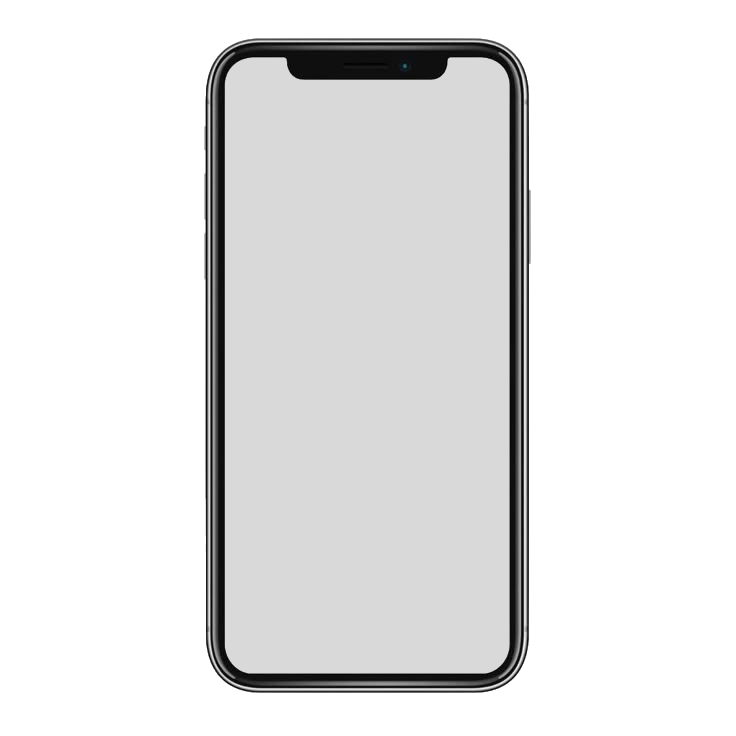
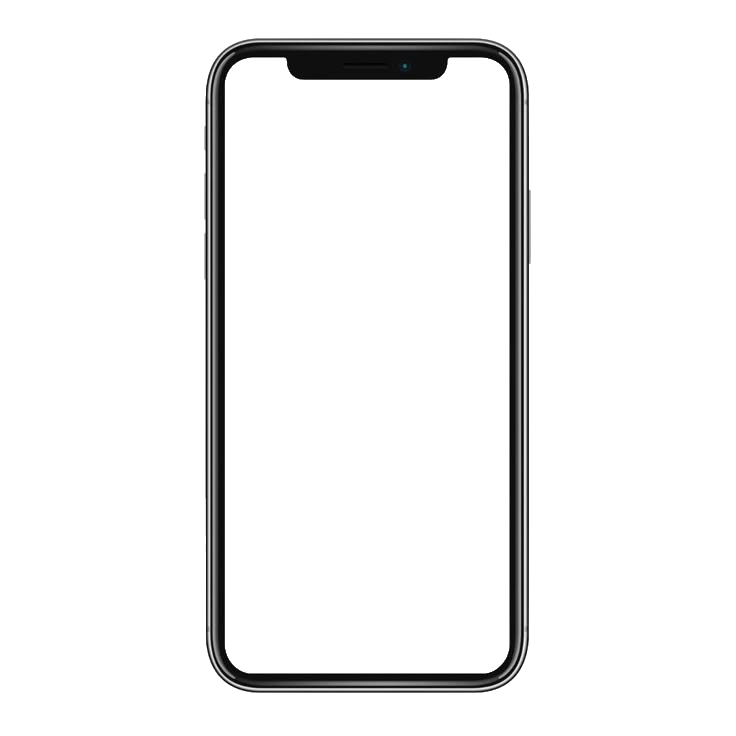
update: écran et contenu des téléphones

diff --git a/landing-page/src/app/section/hero-banner/hero-banner.module.scss b/landing-page/src/app/section/hero-banner/hero-banner.module.scss
@@ -10,7 +10,7 @@
   align-items: center;
   padding: 0 2em;
 
-  .side {
+  .divTitleText {
     flex: 1 1 0;
     min-width: 0; // Important pour éviter le débordement de texte
   }
@@ -57,21 +57,43 @@
     top: 10em;
     right: -4em;
   }
+  .phoneFrameContainer {
+    .phoneScreen1 {
+      position: absolute;
+      top: 1em;
+      right: 22em;
+      height: 550px;
+      width: 270px;
+      border-radius: 20px;
+      object-fit: cover;
+      z-index: 1;
+    }
 
-  .phone1 {
-    position: absolute;
-    top: -4em;
-    right: 10em;
-    height: 650px;
-    width: auto;
-    z-index: 1;
-  }
-
-  .phone2 {
-    position: relative;
-    height: 650px;
-    width: auto;
-    z-index: 2;
+    .phoneScreen2 {
+      position: absolute;
+      top: 3.5em;
+      right: 12em;
+      height: 550px;
+      width: 270px;
+      border-radius: 20px;
+      object-fit: cover;
+      z-index: 3;
+    }
+    .phoneFrame1 {
+      position: absolute;
+      top: -2em;
+      right: 10em;
+      height: 650px;
+      width: auto;
+      z-index: 2;
+    }
+    .phoneFrame2 {
+      position: relative;
+      top: 0em;
+      height: 650px;
+      width: auto;
+      z-index: 4;
+    }
   }
 }
 
@@ -93,13 +115,13 @@
       font-size: 1.3rem;
     }
 
-    .phone1,
-    .phone2 {
+    .phoneFrame1,
+    .phoneFrame2 {
       height: 570px;
       width: auto;
     }
 
-    .phone1 {
+    .phoneFrame1 {
       top: -1em;
       right: 8.5em;
     }
@@ -126,15 +148,19 @@
       right: -3.5em;
     }
 
-    .phone1,
-    .phone2 {
+    .phoneFrame1,
+    .phoneFrame2 {
       height: 550px;
       width: auto;
     }
 
-    .phone1 {
-      top: -3.5em;
+    .phoneFrame1 {
+      top: -4.5em;
       right: 8em;
+    }
+
+    .phoneFrame2 {
+      top: 0em;
     }
   }
 }
@@ -151,18 +177,40 @@
     .button {
       font-size: 1.1rem;
     }
+
+    .phoneFrame1,
+    .phoneFrame2 {
+      height: 400px;
+      width: auto;
+    }
+
+    .phoneFrame1 {
+      top: -2.5em;
+      right: 5.5em;
+    }
+    .phoneFrame2 {
+      top: 0em;
+    }
   }
 }
 
 @media (max-width: 660px) {
   .herobanner {
-    .model {
-      right: 0em;
+    .titleSharedNotes {
+      font-size: 3rem;
     }
 
-    .phone1 {
-      //top: 6em;
-      right: 0em;
+    .textHerobanner {
+      font-size: 1.5rem;
+    }
+    .model {
+      right: -3em;
+    }
+
+    .phoneFrame1,
+    .phoneFrame2 {
+      height: 350px;
+      width: auto;
     }
   }
 }
@@ -170,7 +218,13 @@
 @media (max-width: 480px) {
   .herobanner {
     .model {
-      right: -2em;
+      right: -3em;
+    }
+
+    .phoneFrame1,
+    .phoneFrame2 {
+      height: 300px;
+      width: auto;
     }
   }
 }

diff --git a/landing-page/src/app/section/hero-banner/hero-banner.tsx b/landing-page/src/app/section/hero-banner/hero-banner.tsx
@@ -1,14 +1,16 @@
 import Image from "next/image";
 import AppStore from "assests/AppStore.png";
 import GooglePlay from "assests/GooglePlay.png";
-import phone1 from "assests/phone.png";
-import phone2 from "assests/phone.png";
+import phoneFrame1 from "assests/phone.png";
+import phoneFrame2 from "assests/phone.png";
+import screenContent1 from "assests/test.jpg";
+import screenContent2 from "assests/test2.jpg";
 import styles from "./hero-banner.module.scss";
 
 export default function Herobanner() {
   return (
     <section className={styles.herobanner}>
-      <div className={styles.side}>
+      <div className={styles.divTitleText}>
         <h1 className={styles.titleSharedNotes}>Shared Notes</h1>
         <div className={styles.textHerobanner}>
           Partagez vos notes avec d'autre personne.
@@ -33,16 +35,33 @@ export default function Herobanner() {
         </div>
       </div>
       <div className={styles.model}>
-        <Image
-          className={styles.phone1}
-          src={phone1}
-          alt="Maquette de téléphone 1"
-        />
-        <Image
-          className={styles.phone2}
-          src={phone2}
-          alt="Maquette de téléphone 2"
-        />
+        <div className={styles.phoneFrameContainer}>
+          <Image
+            className={styles.phoneScreen1}
+            src={screenContent1}
+            alt="Contenu de l'écran"
+          />
+
+          <Image
+            className={styles.phoneFrame1}
+            src={phoneFrame1}
+            alt="Maquette de téléphone 1"
+          />
+        </div>
+
+        <div className={styles.phoneFrameContainer}>
+          <Image
+            className={styles.phoneScreen2}
+            src={screenContent2}
+            alt="Contenu de l'écran"
+          />
+
+          <Image
+            className={styles.phoneFrame2}
+            src={phoneFrame2}
+            alt="Maquette de téléphone 2"
+          />
+        </div>
       </div>
     </section>
   );

diff --git a/landing-page/src/app/components/navbar/navbar.module.scss b/landing-page/src/app/components/navbar/navbar.module.scss
@@ -9,7 +9,7 @@
   top: 0;
   left: 0;
   width: 100%;
-  z-index: 3;
+  z-index: 5;
   box-shadow: 0 2px 4px rgba(0, 0, 0, 0.1);
   display: flex;
   align-items: center;
